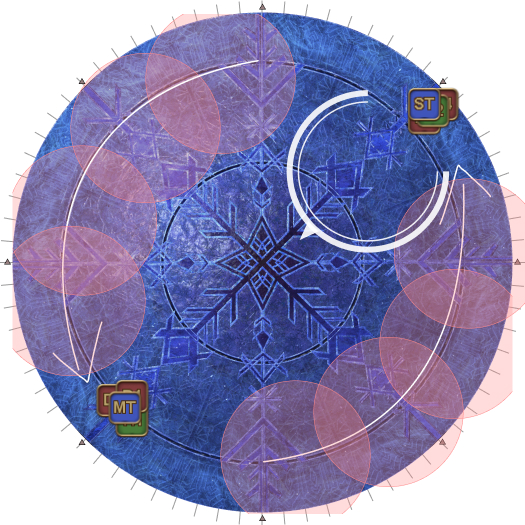
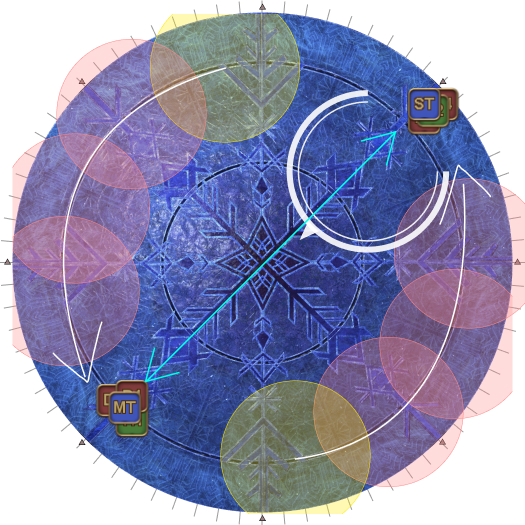
Update static Sunbound Holy to Mostly CW

diff --git a/_static/fru/02_usurper_of_frost.en.md b/_static/fru/02_usurper_of_frost.en.md
@@ -10,13 +10,13 @@ permalink: /static/fru/02_usurper_of_frost/
 
 # Usurper of Frost
 
-This is version 3.4, that's based off the Google Doc with three options for Light
+This is version 3.5, that's based off the Google Doc with three options for Light
 Rampant.
 
 - [**Changelog**](#changelog)
 
 - [**Diamond Dust - Colour coded**](#diamond-dust---colour-coded)
-  - [**Sunbound Holy - Always Away**](#sunbound-holy---always-away)
+  - [**Sunbound Holy - Mostly CW**](#sunbound-holy---mostly-cw)
 - [**Mirror, Mirror**](#mirror-mirror)
 - [**Light Rampant**](#light-rampant)
   - [**4:4 East adjust**](#option-1---light-rampant-44-east-adjust) _or_
@@ -250,48 +250,56 @@ four times with a 4-man stack AoE that also leaves a puddle behind. Each party
 needs to drop these puddles and end up **either directly behind the boss**, or 
 **at least 135 degrees away from the boss**.
 
-First, let's address the "cursed" pattern, which is where the boss teleports 
-directly in front of either light party.
+Because the Usurper of Frost teleports to a random cardinal/intercardinal 
+position, we have four possible cases.
+
+Essentially (with the exception of the first puddle), the party *cannot* drop
+the puddles directly behind the Usurper of Frost.
 
 <table>
   <tr>
     <td width="50%">
-      <p>With the "cursed pattern", move as soon as the star AoEs go off. The 
-      aim is to <b>not</b> drop the first <em>Akh Morn</em> puddle directly 
-      behind the boss (marked in yellow).</p>
-      <p>After that, quickly run clockwise 180 degrees around the arena- you 
-      need to drop four puddles and still make it to the other side.</p>
-      <p>When the floor turns to ice, slide so you're in front of the Oracle of 
-      Light.</p>
+      <p><b>Case 1: The Usurper of Frost is at the same position as either party.</b></p>
+      <p>Move as soon as the star AoEs go off. You can drop the first <em>Akh
+      Morn</em> puddle behind the boss (as it will disappear), but not the
+      second.</p>
+      <p>Quickly run clockwise 180 degrees around the arena- you need to drop
+      four puddles and still make it to the other side.</p>
+      <p>When the floor turns to ice, slide so you're in front of the Usurper of 
+      Frost.</p>
     </td>
     <td>
-      <img src="{{site.baseurl}}/images/ultimates/fru/02/diamond_dust_07d.jpg">
-    </td>
-  </tr>
-</table>
-
-If we do *not* have a cursed scenario, then we follow the "always rotate away" 
-rule. This is a consistent, 90 degree rotation that ideally goes slower rather 
-than fast (i.e: under-rotating is fine, over-rotating is not).
-
-<table>
-  <tr>
-    <td width="50%">
-      <p>If the boss is 90 degrees from a party, both parties rotate away from 
-      the boss and end up directly opposite.</p>
-    </td>
-    <td>
-      <img src="{{site.baseurl}}/images/ultimates/fru/02/diamond_dust_aa_07a.jpg">
+      <img src="{{site.baseurl}}/images/ultimates/fru_mana/02/diamond_dust_07d.jpg">
     </td>
   </tr>
   <tr>
     <td>
-      <p>If the boss is 45 degrees from a party, both parties rotate away from 
-      the boss and end up 135 degrees away from the boss.</p>
-      <p>The next movement will be slanted.</p>
+      <p><b>Case 2: The Usurper of Frost is 90s degrees from both parties.</b></p>
+      <p>In this scenario, both parties move clockwise slowly, and end up
+      directly in front and behind the Usurper of Frost.</p>
     </td>
     <td>
-      <img src="{{site.baseurl}}/images/ultimates/fru/02/diamond_dust_aa_07b.jpg">
+      <img src="{{site.baseurl}}/images/ultimates/fru_mana/02/diamond_dust_07a.jpg">
+    </td>
+  </tr>
+  <tr>
+    <td>
+      <p><b>Case 3: The Usurper of Frost is 45 degrees anti-clockwise from a party.</b></p>
+      <p>In this scenario, both parties move clockwise quickly, and end up
+      directly in front and behind the Usurper of Frost.</p>
+    </td>
+    <td>
+      <img src="{{site.baseurl}}/images/ultimates/fru_mana/02/diamond_dust_07b.jpg">
+    </td>
+  </tr>
+  <tr>
+    <td>
+      <p><b>Case 4: The Usurper of Frost is 45 degrees clockwise from a party.</b></p>
+      <p>In this scenario, both parties move <b>anti-clockwise</b> quickly, and
+      end up directly in front and behind the Usurper of Frost.</p>
+    </td>
+    <td>
+      <img src="{{site.baseurl}}/images/ultimates/fru/02/diamond_dust_07c.jpg">
     </td>
   </tr>
 </table>
@@ -1561,6 +1569,10 @@ Gaia and turning her into the Oracle of Darkness.
   <tr>
     <td>
       <ul>
+        <li>v3.5 (26 Feb 2025): Updated <em>Sunbound Holy</em> to "Mostly CW" 
+        (we had actually updated to this several weeks ago, because it was 
+        simpler, especially with voice-comms, but I had forgotten to update it 
+        here.)</li>
         <li>v3.4 (14 Feb 2025): Updated the 4:4 East-adjust <em>Light
         Rampant</em> strat puddles to start from the center and go 
         anti-clockwise (the "Overcooked" strat).</li>
